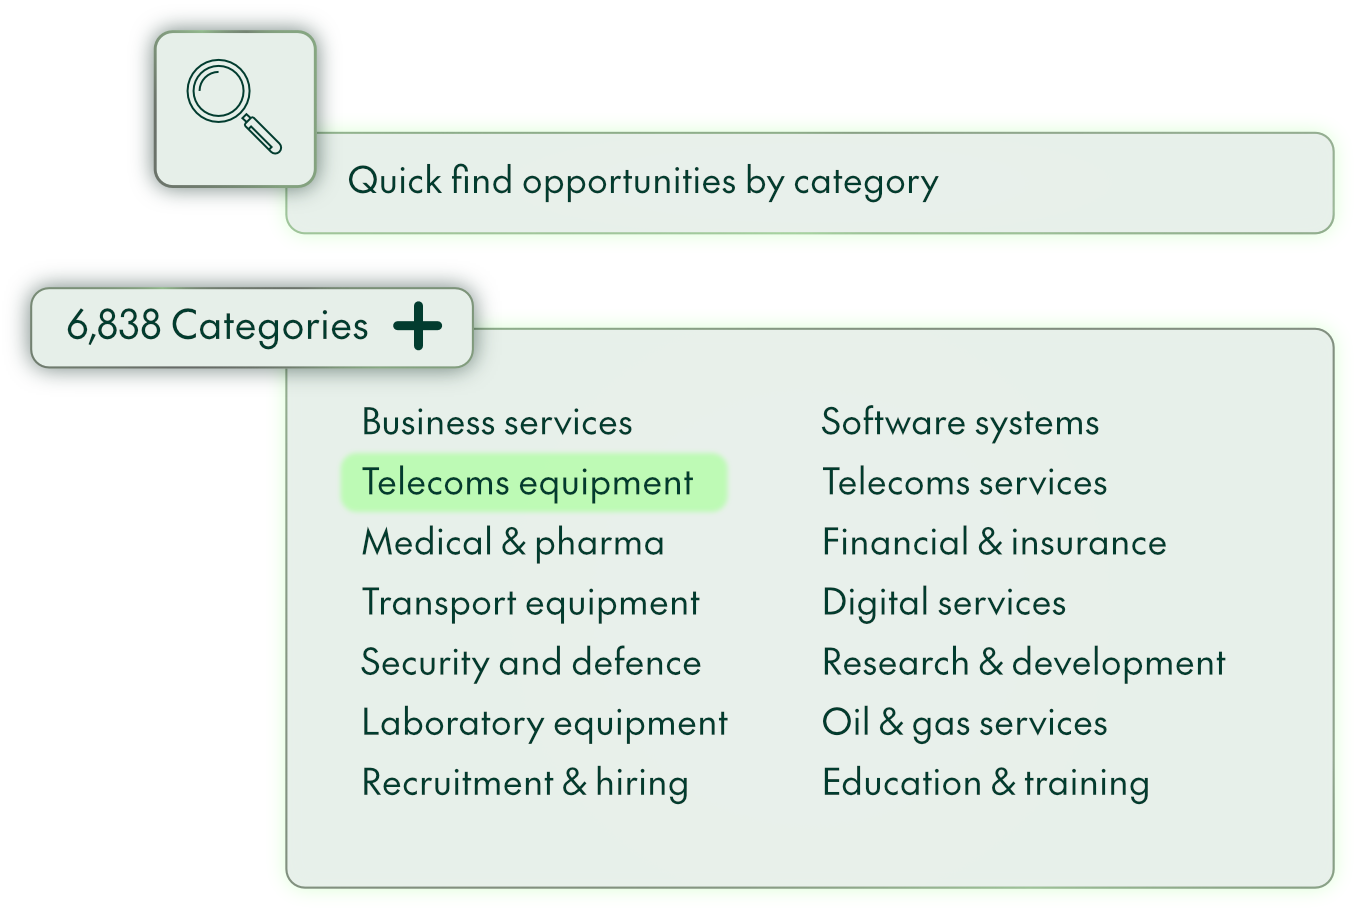
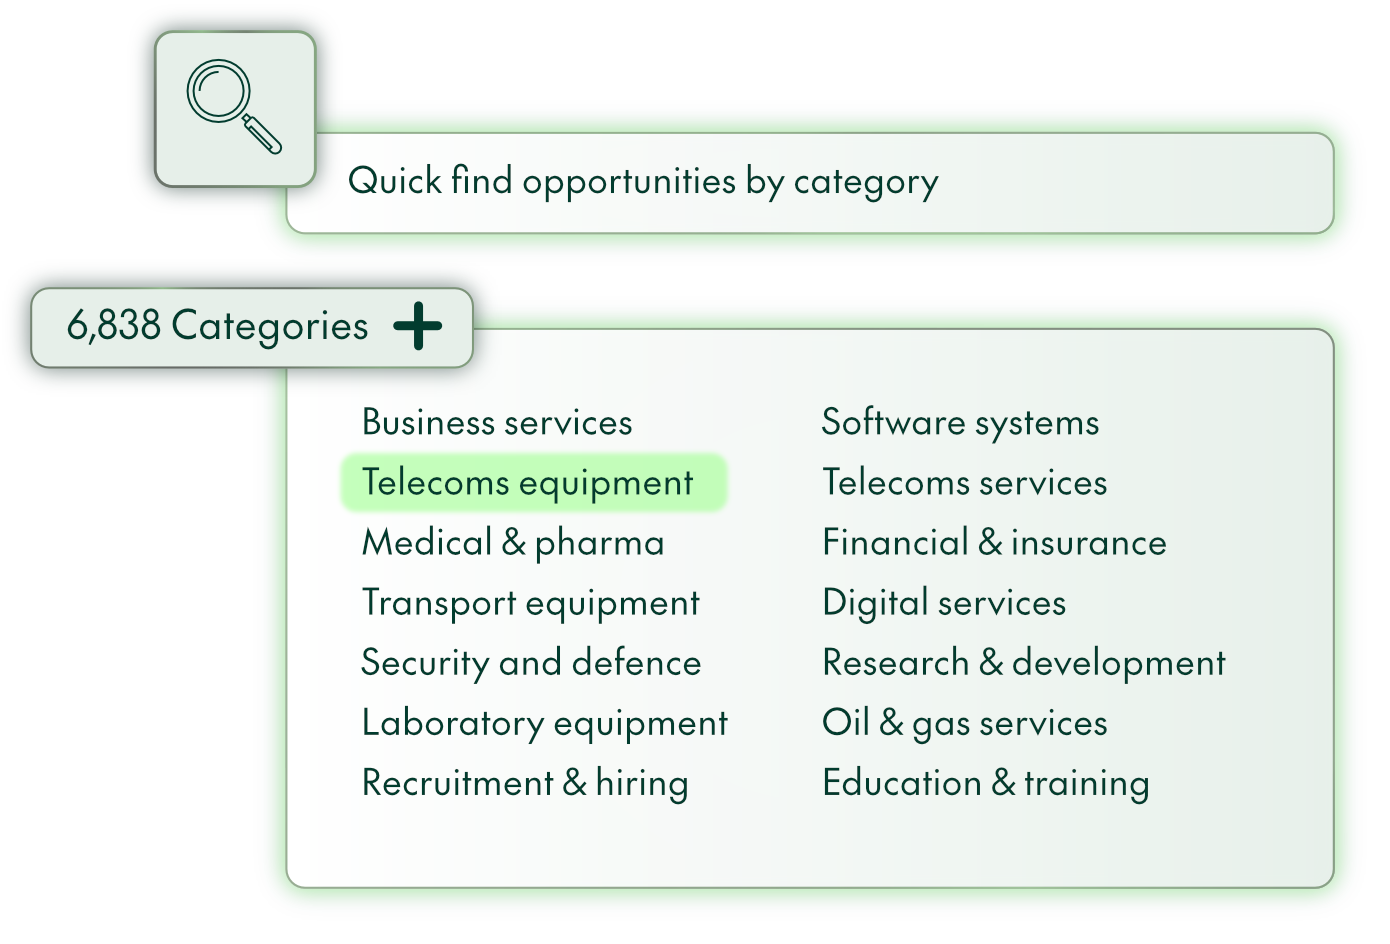
Add theme-based image switching for light/dark mode
Implemented automatic image switching based on theme mode for homepage feature sections. Images now seamlessly transition between light and dark variants when users toggle the theme.

Changes:
- Create ThemeImage component with Astro scoped CSS for theme-aware rendering
- Add image_dark field to homepage content schema (content.config.ts)
- Update all feature sections with separate light and dark image paths
- Add light theme variants for all homepage feature images
- Adjust scroll animation timing to keep text visible longer during scroll

Technical details:
- ThemeImage wraps images in divs with Astro scoped data attributes for proper CSS targeting
- CSS uses :global(.dark) selector to show/hide appropriate image based on theme
- Schema validation ensures image_dark is recognized as optional field

🤖 Generated with [Claude Code](https://claude.com/claude-code)

Changed region(s): [[0.0, 0.0307, 0.989, 0.9814], [0.5872, 0.4294, 0.8962, 0.8894], [0.9581, 0.1533, 0.989, 0.2453]]

diff --git a/src/lib/scrollAnimations.ts b/src/lib/scrollAnimations.ts
@@ -1,8 +1,5 @@
 export function initFeatureScrollAnimations() {
-  console.log('[SCROLL DEBUG] Initializing...');
   const featureSections = document.querySelectorAll('.feature-scroll-section');
-
-  console.log('[SCROLL DEBUG] Found sections:', featureSections.length);
 
   if (featureSections.length === 0) {
     return;
@@ -11,32 +8,24 @@ export function initFeatureScrollAnimations() {
   // Check if mobile - skip animations on mobile devices
   const isMobile = () => window.innerWidth <= 768;
 
-  console.log('[SCROLL DEBUG] Is mobile?', isMobile(), 'Width:', window.innerWidth);
-
-  featureSections.forEach((section, idx) => {
+  featureSections.forEach((section) => {
     const image = section.querySelector('.feature-image') as HTMLElement;
     const textWrapper = section.querySelector('.feature-text-wrapper') as HTMLElement;
 
     if (!image || !textWrapper) {
-      console.log(`[SCROLL DEBUG] Section ${idx} missing elements`);
       return;
     }
-
-    const classes = textWrapper.className;
-    console.log(`[SCROLL DEBUG] Section ${idx} text classes:`, classes);
 
     // On mobile, keep everything visible - no animations
     if (isMobile()) {
       image.style.opacity = '1';
       textWrapper.style.opacity = '1';
-      console.log(`[SCROLL DEBUG] Section ${idx} set to mobile (visible)`);
       return;
     }
 
     // Set initial states for desktop
     image.style.opacity = '0';
     textWrapper.style.opacity = '0';
-    console.log(`[SCROLL DEBUG] Section ${idx} initialized with opacity 0`);
   });
 
   function updateAnimations() {
@@ -78,31 +67,26 @@ export function initFeatureScrollAnimations() {
       }
 
       // Text fades in (0.35 to 0.42)
-      // Text stays visible (0.42 to 0.48)
-      // Text fades out (0.48 to 0.55) - must be invisible before sticky runs out of space
+      // Text stays visible (0.42 to 0.58) - extended duration
+      // Text fades out (0.58 to 0.65) - delayed to keep text visible longer
       let textOpacity = 0;
       if (clampedProgress < 0.35) {
         textOpacity = 0;
       } else if (clampedProgress >= 0.35 && clampedProgress < 0.42) {
         // Fade in - starts later to avoid overlap with previous section
         textOpacity = (clampedProgress - 0.35) / 0.07;
-      } else if (clampedProgress >= 0.42 && clampedProgress < 0.48) {
-        // Fully visible
+      } else if (clampedProgress >= 0.42 && clampedProgress < 0.58) {
+        // Fully visible - extended range so text stays longer
         textOpacity = 1;
-      } else if (clampedProgress >= 0.48 && clampedProgress < 0.55) {
-        // Fade out - invisible before container forces upward movement
-        textOpacity = 1 - ((clampedProgress - 0.48) / 0.07);
+      } else if (clampedProgress >= 0.58 && clampedProgress < 0.65) {
+        // Fade out - delayed so text fades out later in the scroll
+        textOpacity = 1 - ((clampedProgress - 0.58) / 0.07);
       } else {
         textOpacity = 0;
       }
 
       image.style.opacity = imageOpacity.toString();
       textWrapper.style.opacity = textOpacity.toString();
-
-      // Debug: Log when text is visible
-      if (textOpacity > 0 || imageOpacity > 0) {
-        console.log(`[SCROLL DEBUG] Section visible - Image: ${imageOpacity.toFixed(2)}, Text: ${textOpacity.toFixed(2)}, Progress: ${clampedProgress.toFixed(2)}`);
-      }
     });
   }
 

diff --git a/src/content.config.ts b/src/content.config.ts
@@ -89,6 +89,7 @@ const homepageCollection = defineCollection({
       z.object({
         title: z.string(),
         image: z.string(),
+        image_dark: z.string().optional(),
         image_side: z.enum(["left", "right"]).default("right"),
         content: z.string(),
         bulletpoints: z.array(z.string()),

diff --git a/src/content/homepage/-index.md b/src/content/homepage/-index.md
@@ -10,7 +10,8 @@ banner:
     subtitle: No credit card required
 features:
   - title: Instantly search across 800+ sources every day.
-    image: /images/front_page_portal_maze.png
+    image: /images/front_page_portal_maze_light.png
+    image_dark: /images/front_page_portal_maze.png
     image_side: right
     content: >-
       With opportunities spread across hundreds of sites, you need a single,
@@ -26,7 +27,8 @@ features:
       label: Get Started Now
       link: '#'
   - title: Use keywords to find the right opportunities
-    image: /images/front_page_keyword.png
+    image: /images/front_page_keyword_light.png
+    image_dark: /images/front_page_keyword.png
     image_side: right
     content: The fastest route from A to Bid, guaranteed.
     bulletpoints:
@@ -39,7 +41,8 @@ features:
       label: ''
       link: ''
   - title: Narrow your search to your location
-    image: /images/front_page_countries.png
+    image: /images/front_page_countries_light.png
+    image_dark: /images/front_page_countries.png
     image_side: right
     content: >-
       Search by continent, country or groups of country to search your specific
@@ -53,7 +56,8 @@ features:
       label: Get Started Now
       link: https://github.com/zeon-studio/astroplate
   - title: Download attachments
-    image: /images/front_page_attachments2.png
+    image: /images/front_page_attachments2_light.png
+    image_dark: /images/front_page_attachments2.png
     image_side: right
     content: >-
       You can download specifications directly inside Open Opportunities, giving
@@ -70,7 +74,8 @@ features:
       label: Try for free
       link: ''
   - title: Never miss an opportunity
-    image: /images/front_page_email_alert.png
+    image: /images/front_page_email_alert_light.png
+    image_dark: /images/front_page_email_alert.png
     image_side: right
     content: >-
       Get intelligent alerts directly to your inbox so that you always know
@@ -87,6 +92,7 @@ features:
       link: ''
   - title: We've categorized every document for you
     image: /images/front_page_categories_light.png
+    image_dark: /images/front_page_categories.png
     image_side: right
     content: >-
       Sometimes keywords aren't enough, combining keywords and category filters
